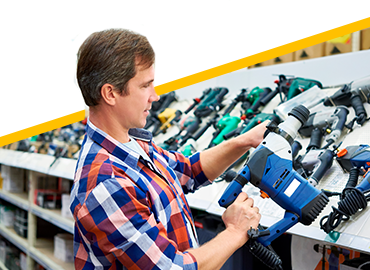
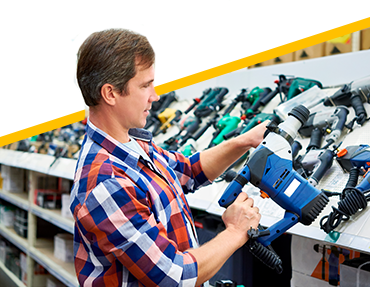
Исправил картинку в обещаниях и убрал внутренний отступ в offer__form

diff --git a/src/index.html b/src/index.html
@@ -356,7 +356,7 @@
               у наших партнеров для закупки материалов оптом                
             </p>
             <div class="promise__image">
-              <img src="img/promises/promise-2.png" alt="Promise-2">
+              <img src="img/promises/promise-2.png" alt="Promise-2" class="promise__picture">
             </div>
           </div>
           <div class="promise">

diff --git a/src/css/style.css b/src/css/style.css
@@ -513,6 +513,9 @@ h2 {
   .offer__title {
     text-align: center;
   }
+  .offer__form {
+    padding-left: 0 !important;
+  }
 }
 
 @media (max-width: 768px) {
@@ -1527,6 +1530,11 @@ img {
   -webkit-box-align: end;
       -ms-flex-align: end;
           align-items: flex-end;
+}
+
+.promise__picture {
+  max-height: 270px;
+  width: 100%;
 }
 
 .promises-block {

diff --git a/src/sass/blocks/_offer.sass b/src/sass/blocks/_offer.sass
@@ -78,7 +78,9 @@ h2
       align-items: center 
       padding: 70px 
     &__title 
-      text-align: center   
+      text-align: center
+    &__form
+      padding-left: 0 !important    
 @media (max-width: 768px)
   .offer
     &__input-block

diff --git a/src/sass/blocks/_promises.sass b/src/sass/blocks/_promises.sass
@@ -13,6 +13,9 @@
   &__image 
     display: flex 
     align-items: flex-end 
+  &__picture
+    max-height: 270px
+    width: 100%
   &s 
     &-block 
       display: flex 
